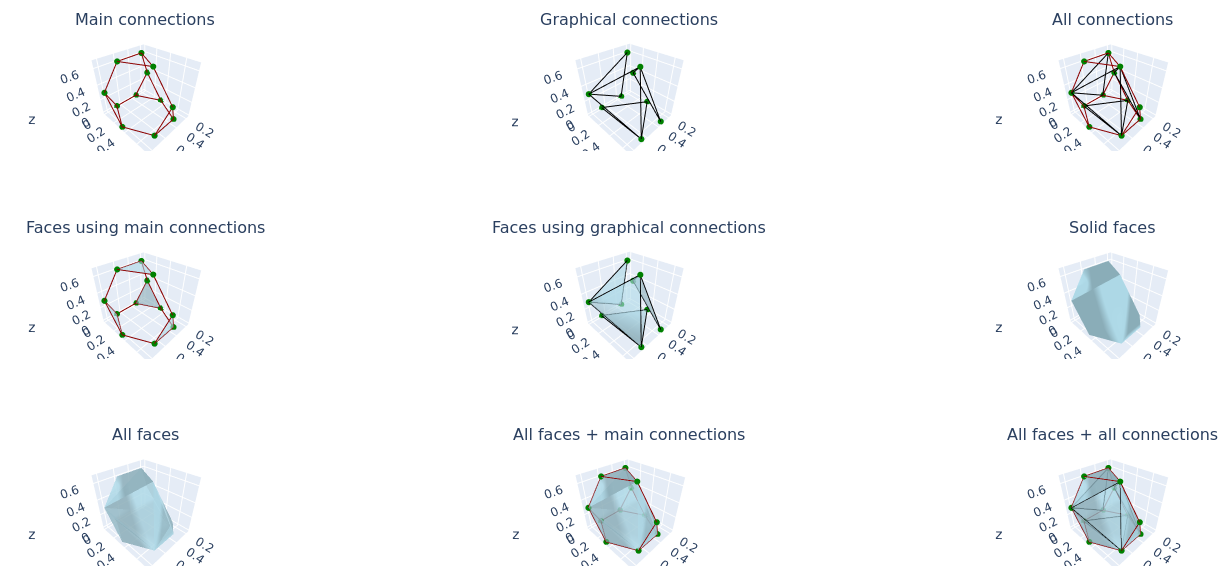
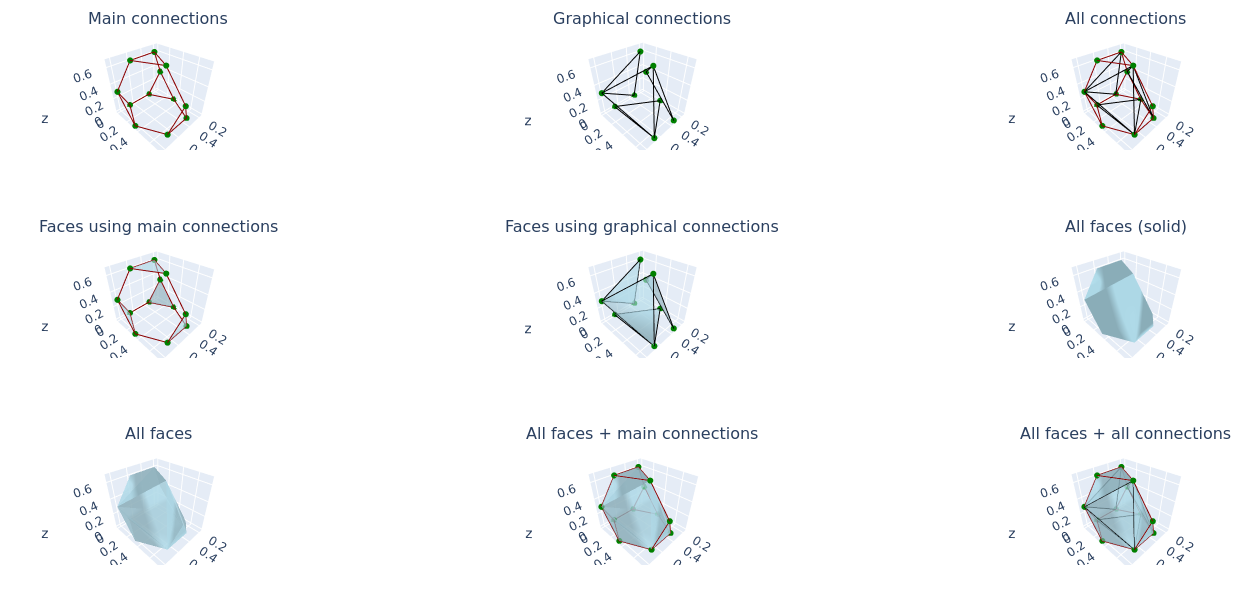
changed title of one of the full subplos

diff --git a/chaikin3d.py b/chaikin3d.py
@@ -69,7 +69,7 @@ def draw_full(renderer : Renderer, poly : Polygon) -> None:
 		'All connections',
 		'Faces using main connections',
 		'Faces using graphical connections',
-		'Solid faces',
+		'All faces (solid)',
 		'All faces',
 		'All faces + main connections',
 		'All faces + all connections'
